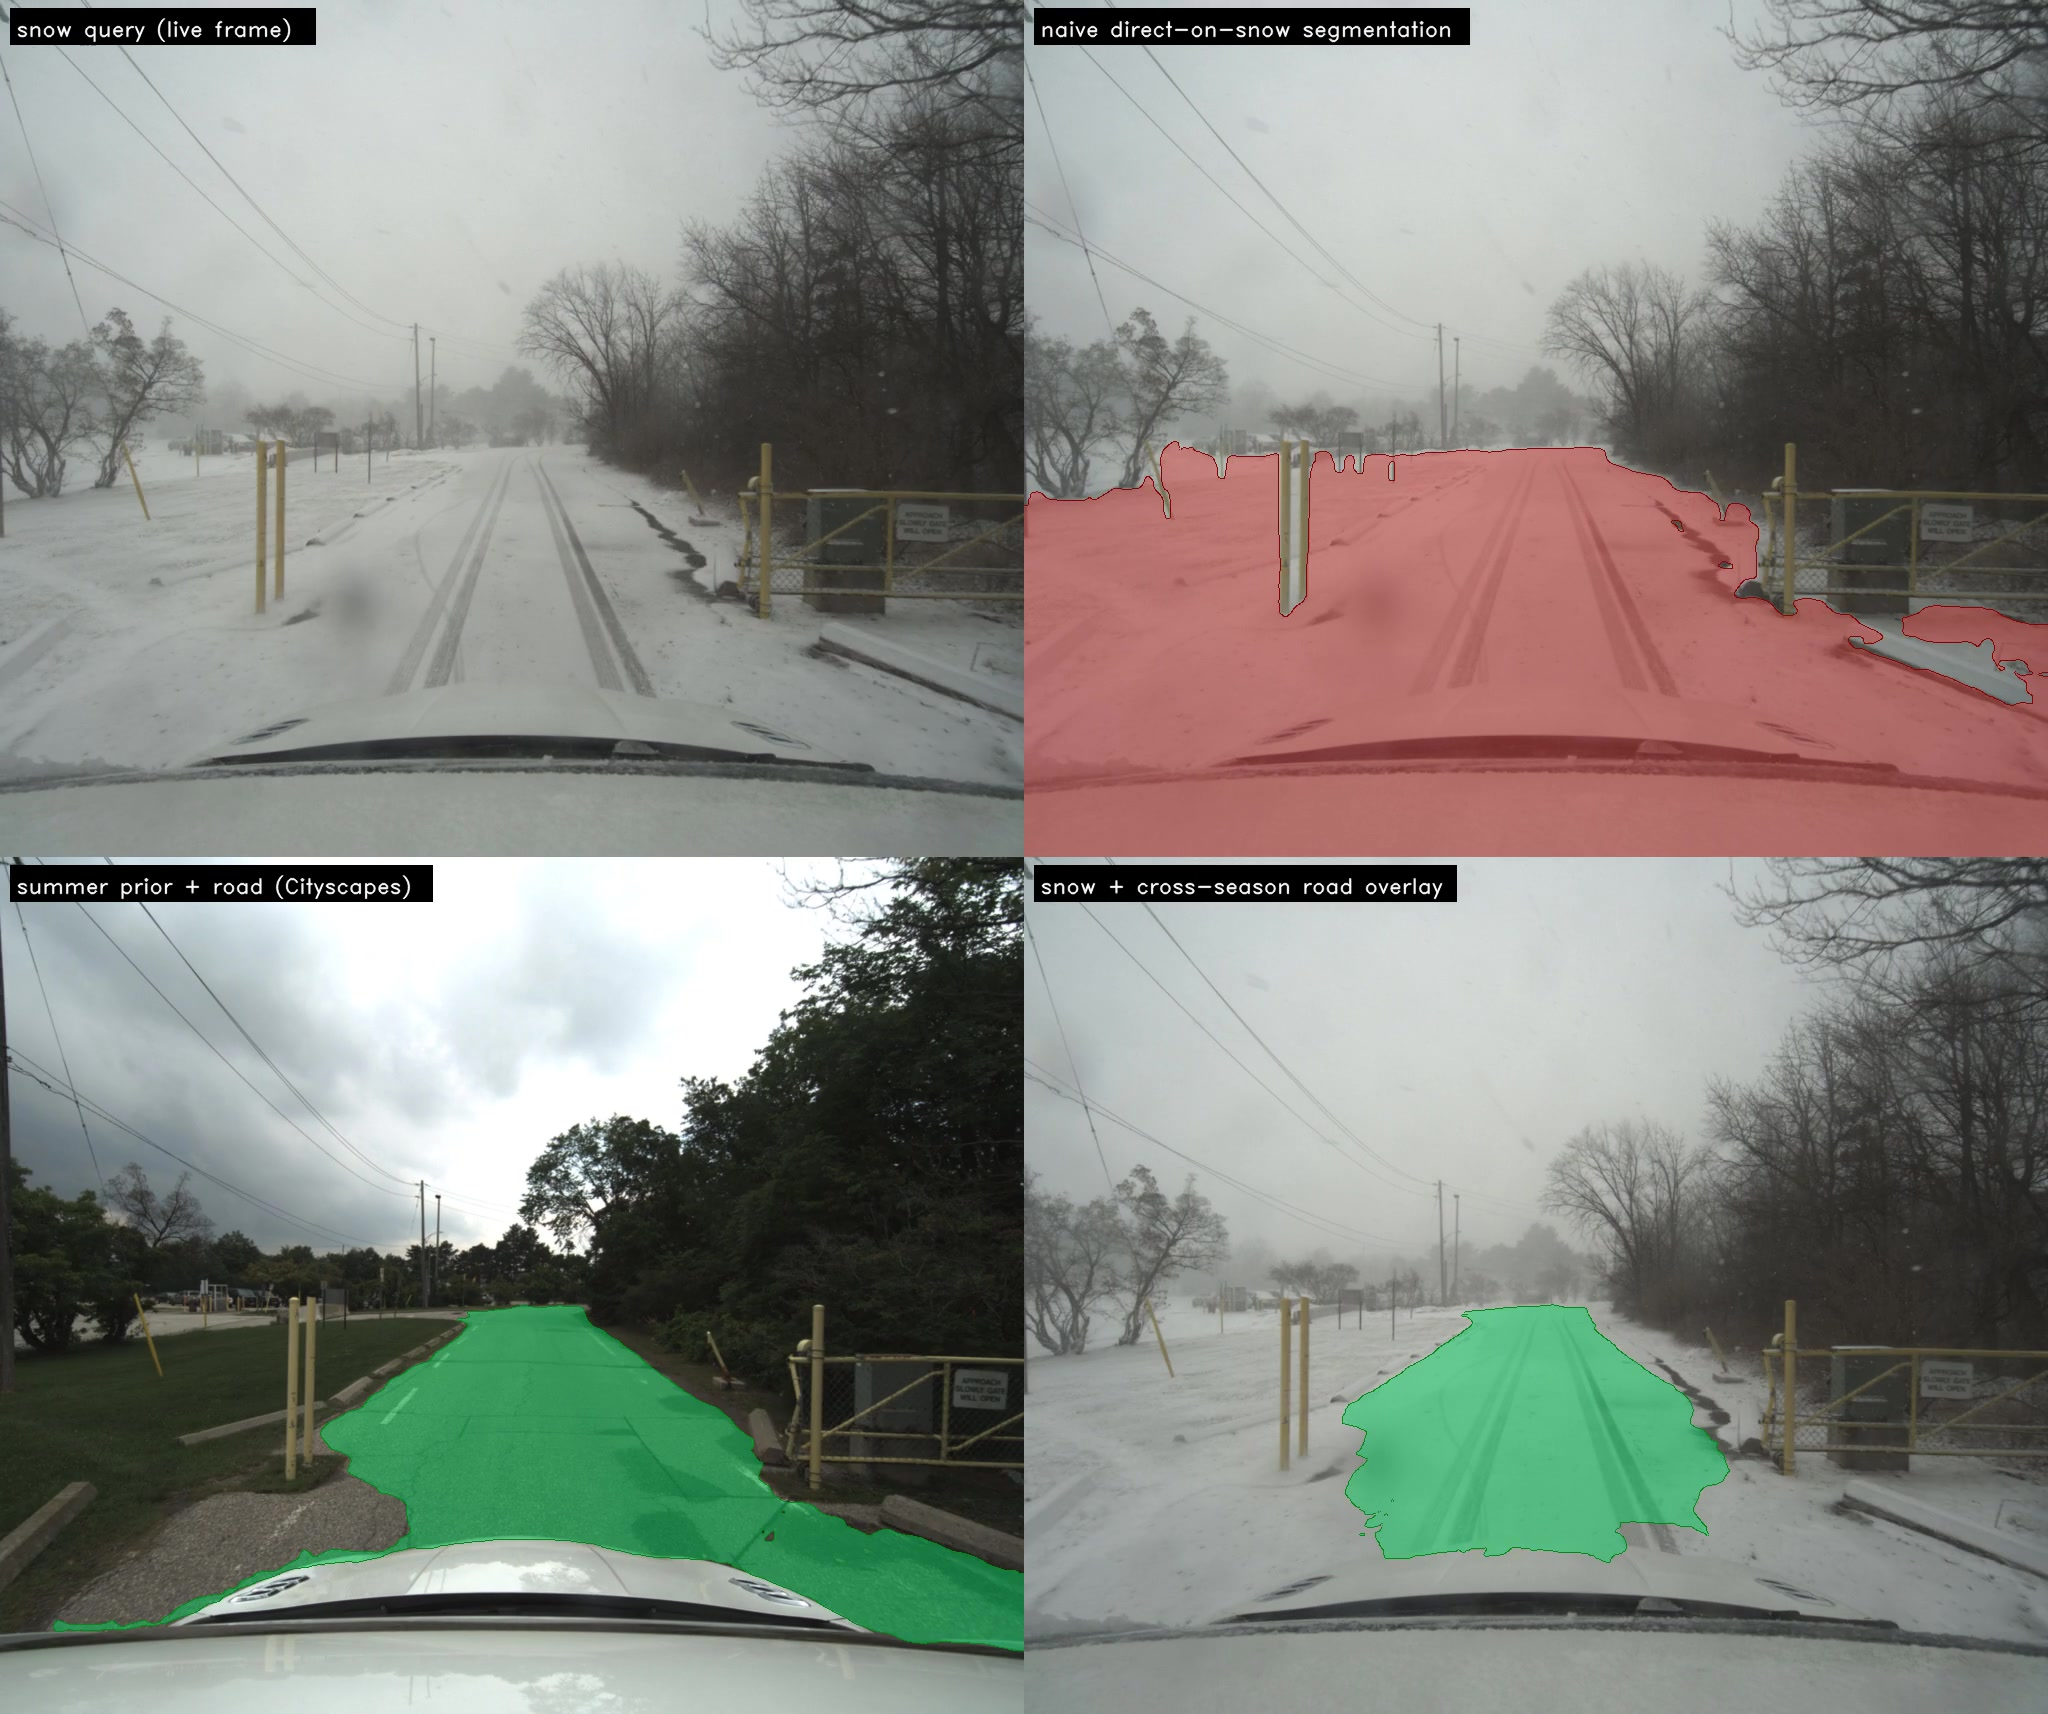
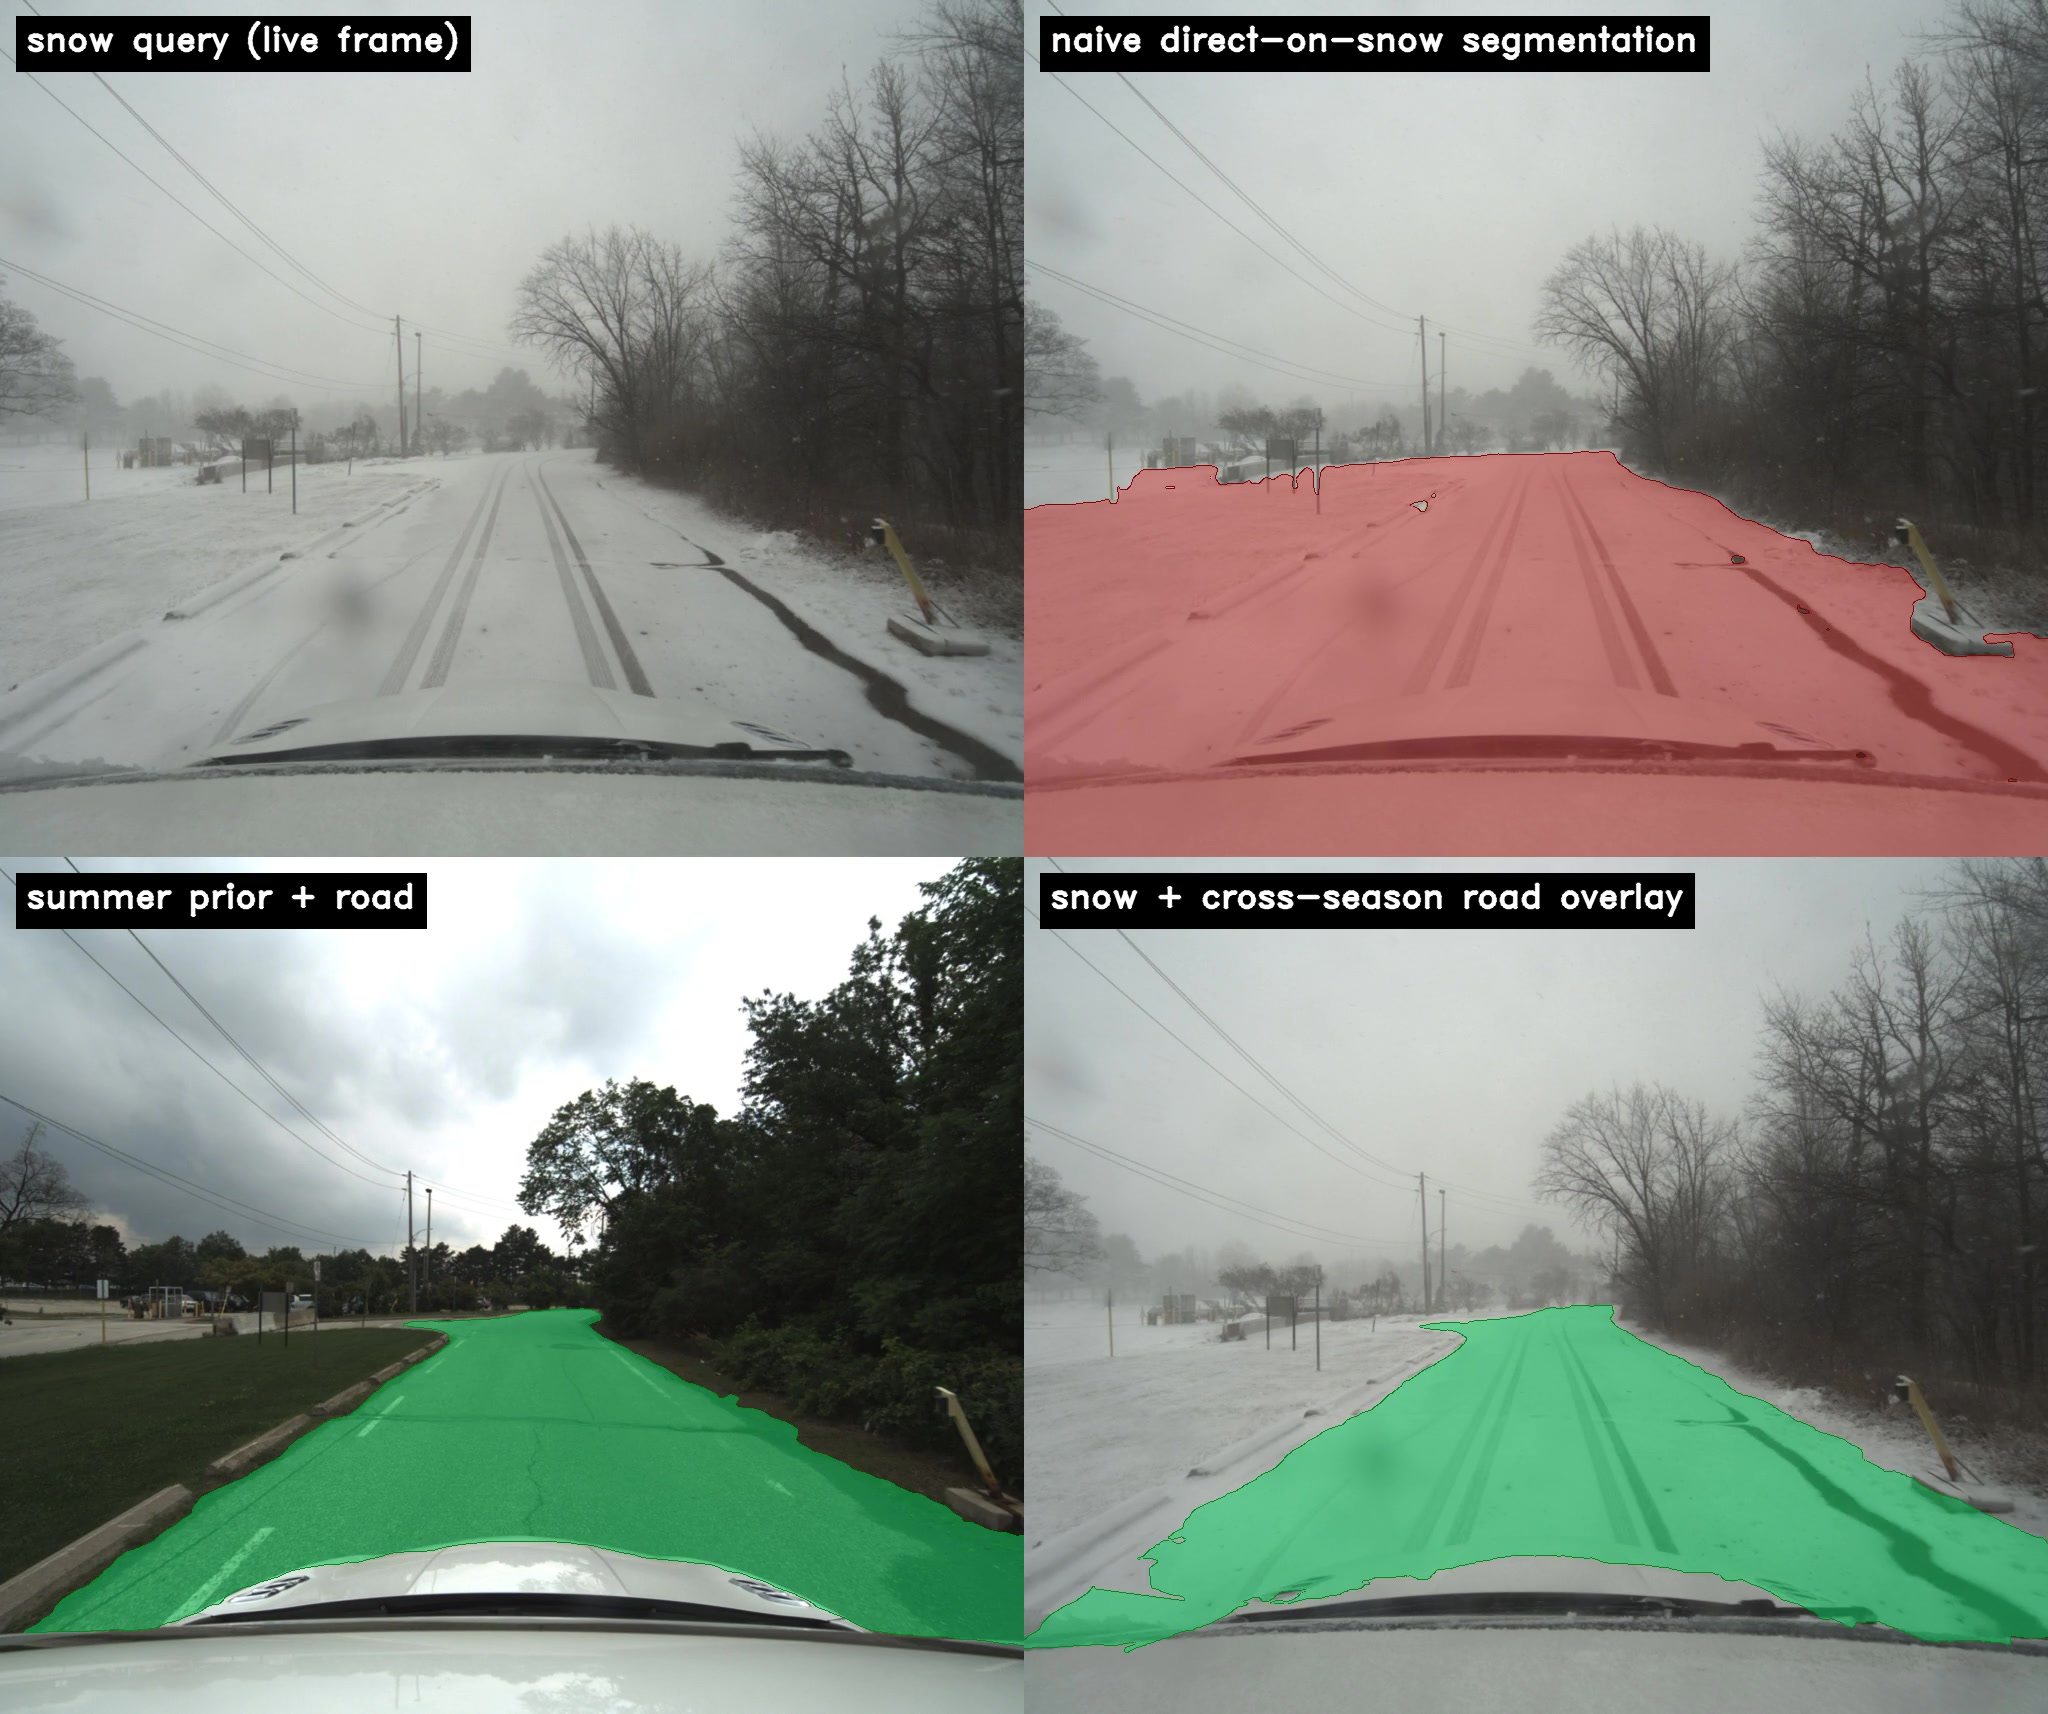
Site polish + ship media for GitHub Pages
- index.html: bonnet/cutout artefact paragraph in Limitations; bold
  + italic lead-ins with line break; conference detail wraps to its
  own line in Components; track-grid swapped to quad clips with the
  matching poster still.
- overlay_render.py: bigger in-plot labels (font scale 0.7 -> 1.1,
  thickness 1 -> 2, getTextSize-based band sizing); drop "(Cityscapes)"
  from the summer panel label.
- _assets/media: re-rendered both Toronto quad clips with the new
  labels and the new poster still.
- .gitignore: whitelist docs/_assets/media so the Pages site can
  actually load the videos.

diff --git a/docs/index.html b/docs/index.html
@@ -115,10 +115,10 @@
 
     <figure>
       <img src="_assets/media/toronto_2021_quad_t005.jpg" alt="Four panels: snow input (top-left), naive Cityscapes baseline applied directly to snow (top-right, painting road class across snow and sky), summer prior with successful road segmentation (bottom-left), cross-season overlay produced by warping the prior's road mask through the homography (bottom-right)." />
-      <figcaption>One frame, four panels, from a canonical Toronto clip. Top-left: the snow input. Top-right: the naive baseline. A Cityscapes-trained segmenter applied directly to the snow frame paints the road class across snow and sky alike. Bottom-left: the paired summer prior with the road segmentation that <em>did</em> succeed (because the road is visible). Bottom-right: the cross-season overlay produced by warping the prior's road mask through the homography into the snow frame's pixel coordinates.</figcaption>
+      <figcaption>One frame from a clip of driving in Toronto. Top-left: the snowy input. Top-right: the naive road-segmented baseline. Bottom-left: the paired summer prior with <em>successful</em> road segmentation (because the road is visible). Bottom-right: the cross-season overlay produced by warping the prior's road mask through the homography into the snow frame.</figcaption>
     </figure>
 
-    <p>The video processor wraps a per-still-image-pair pipeline in three thin layers: a track loader indexing snow and summer streams by GPS pose, a prior pool returning the K = 3 nearest summer captures by distance for each snow frame, and an exponential moving average (&alpha; = 0.4) on the binary road mask to produce a smoother continuous render of the transferred road position.</p>
+    <p>The video processor wraps a per-still-image-pair pipeline in three layers: a track loader indexing snow and summer streams by GPS pose, a prior pool returning the K = 3 nearest summer captures by distance for each snow frame, and an exponential moving average (&alpha; = 0.4) on the binary road mask to produce a smoother continuous render of the transferred road position.</p>
 
     <blockquote>The output of the Snowseer pipeline is restricted to presenting <strong>only where the road is expected to be</strong>, not where the snow should necessarily be cleared by the plough. A broader autonomous snow-clearing system would integrate Snowseer with other sensing and safety processes (lidar, depth, obstacle detection), each unburdened of the road-position problem on a buried road.</blockquote>
   </div>
@@ -130,18 +130,17 @@
 
     <table>
       <thead>
-        <tr><th>Component</th><th>Role</th><th>Pretrained on</th></tr>
+        <tr><th>Component</th><th>Role</th><th>Model</th><th>Dataset</th></tr>
       </thead>
       <tbody>
-        <tr><td><strong>DISK</strong> <em>(NeurIPS &lsquo;20)</em></td><td>Local feature detector + descriptor</td><td>MegaDepth · no snow</td></tr>
-        <tr><td><strong>LightGlue</strong> <em>(ICCV &lsquo;23)</em></td><td>Sparse feature matcher</td><td>MegaDepth · no snow</td></tr>
-        <tr><td><strong>USAC-MAGSAC</strong> <em>(CVPR &lsquo;20)</em></td><td>Robust homography</td><td>n/a</td></tr>
-        <tr><td><strong>Mask2Former</strong> <em>(CVPR &lsquo;22)</em></td><td>Road segmenter (on the clear prior only)</td><td>Cityscapes · no snow</td></tr>
-        <tr><td><strong>Boreas</strong> <em>(IJRR &lsquo;23)</em></td><td>Snow + paired summer driving captures (dataset)</td><td>n/a (CC BY 4.0)</td></tr>
+        <tr><td>Feature detector</td><td>Locate keypoints in each image</td><td><strong>DISK</strong><br /><em>(NeurIPS &lsquo;20)</em></td><td>MegaDepth</td></tr>
+        <tr><td>Feature matcher</td><td>Pair keypoints across the snow / summer images</td><td><strong>LightGlue</strong><br /><em>(ICCV &lsquo;23)</em></td><td>MegaDepth</td></tr>
+        <tr><td>Homography fit</td><td>Robust geometric registration of the pair</td><td><strong>USAC-MAGSAC</strong><br /><em>(CVPR &lsquo;20)</em></td><td>n/a</td></tr>
+        <tr><td>Road segmenter</td><td>Produce a road mask on the summer image</td><td><strong>Mask2Former</strong><br /><em>(CVPR &lsquo;22)</em></td><td>Cityscapes</td></tr>
       </tbody>
     </table>
 
-    <p>Components used unmodified and crucially <em>without any retraining</em>. None is fine-tuned on snow.</p>
+    <p>Components used crucially <em>without any retraining</em>: none are fine-tuned on snow.</p>
   </div>
 </section>
 
@@ -149,27 +148,27 @@
   <div class="container">
     <h2>Demo material</h2>
 
-    <p>The demo material is video clips from snow-covered streets in Toronto, captured in the Boreas dataset (January 2021 and February 2025). The pipeline produces a continuous green road-region overlay tracking the buried road frame by frame. A side-by-side naive baseline (the same Cityscapes segmenter applied directly to the snow frame) is included for contrast: the naive overlay sprawls across frames into clearly non-road territory, while the cross-season overlay tracks the buried road continuously through the clip on a pipeline whose learned components have never seen snow.</p>
+    <p>The demo material consists of video clips from snow-covered streets in Toronto (January 2021 and February 2025), obtained from the Boreas dataset. The pipeline produces a continuous green road-region overlay tracking the buried road frame by frame. A side-by-side naive baseline (the same segmenter applied directly to the snow frame) is included for contrast: the naive overlay sprawls across frames into clearly non-road territory, while the cross-season overlay tracks the buried road continuously through the clip on a pipeline whose components have never seen snow.</p>
 
     <div class="track-grid">
       <figure class="track">
-        <video autoplay loop muted playsinline controls preload="metadata" poster="_assets/media/toronto_2021_overlay_t005.jpg">
-          <source src="_assets/media/toronto_2021_sidebyside.mp4" type="video/mp4" />
+        <video autoplay loop muted playsinline controls preload="metadata" poster="_assets/media/toronto_2021_quad_t005.jpg">
+          <source src="_assets/media/toronto_2021_quad.mp4" type="video/mp4" />
         </video>
-        <figcaption><strong>Residential Toronto, January 2021.</strong> Heavy snow, mid-morning. Snow query (left) and cross-season overlay (right).</figcaption>
+        <figcaption><strong>Toronto, January 2021.</strong> Four panels per frame: snow input (top-left), naive segmenter baseline applied directly to snow (top-right), paired summer prior with road segmentation (bottom-left), cross-season overlay onto the snow frame (bottom-right).</figcaption>
       </figure>
 
       <figure class="track">
         <video autoplay loop muted playsinline controls preload="metadata">
-          <source src="_assets/media/toronto_2025_sidebyside.mp4" type="video/mp4" />
+          <source src="_assets/media/toronto_2025_quad.mp4" type="video/mp4" />
         </video>
-        <figcaption><strong>Toronto, February 2025.</strong> A different drive in active snowfall, late afternoon. Same code and parameters as the January clip.</figcaption>
+        <figcaption><strong>Toronto, February 2025.</strong> Four panels per frame: snow input (top-left), naive segmenter baseline applied directly to snow (top-right), paired summer prior with road segmentation (bottom-left), cross-season overlay onto the snow frame (bottom-right)..</figcaption>
       </figure>
     </div>
 
-    <p>The same pipeline was also verified across an 18-pair static-stills set from different nordic regions, covering distinct snow scenes, road layouts and environments. It was the foundation the video pipeline was built on.</p>
+    <p>The same pipeline was also verified across a set of 18 images from different nordic regions, covering distinct snow scenes, road layouts, lighting conditions and environments. They served as proof-of-concept testing early in development and represent the foundations the video pipeline was built on.</p>
 
-    <p class="note">Each pair below is a 2&times;2: snow query (top-left), naive Cityscapes baseline applied directly to snow with the road class in red (top-right), paired summer prior of the same scene (bottom-left), cross-season overlay with the road transferred onto the snow frame in green (bottom-right).</p>
+    <p class="note">Each pair below is a 2&times;2: snow query (top-left), naive segmenter baseline applied directly to snow with the road approximation in red (top-right), paired summer prior of the same scene (bottom-left), cross-season overlay with the road transferred onto the snow frame in green (bottom-right).</p>
 
     <div class="pairs-grid">
       <figure class="pair">
@@ -211,9 +210,11 @@
   <div class="container">
     <h2>Limitations</h2>
 
-    <p><em>The pipeline is not, currently, real-time.</em> Partly due to lack of access to a snow plough and vast amounts of snow, but perhaps also due to computational constraints, the road overlay pipeline currently runs asynchronously to when images are taken. This is a barrier to deployment, but is an implementation task which is certainly surmountable if this project were to take a more operational form. There is nothing in the principle that stops a knowledge-transfer system running live. The matching pass dominates per-frame compute, taking around 16 s per frame on Mac CPU. Demo clips build end-to-end in roughly an hour. Real-time operation needs a substantially faster matcher and segmenter, which is a deployment-engineering problem rather than a research question, and is the first item in the next-steps section.</p>
+    <p><strong><em>Some artefacts in the overlay are inherited from the summer prior.</em></strong><br />Where the front of the summer capture vehicle is visible in the prior, the warped road mask begins a short distance ahead of the snow camera rather than directly under it. Where a parked car or other obstacle sits on the road in the prior, the segmenter routes the road class around the obstacle and the overlay carries that cutout forward into the snow frame. Neither artefact is a property of the constants-bridge principle. Both are tractable with reasonable engineering, for example by extrapolating the road below the visible mask boundary, or by fusing several priors of the same scene so that any one prior's foreground occlusions are filled in by the others.</p>
 
-    <p><em>The system is not, currently, able to be deployed arbitrarily.</em> The design of the present iteration of the pipeline is contingent on a certain format of high-quality clear-road imagery. Generalising the system to operate on any given road with Google Street View (or a comparable source) available is feasible (the pipeline is substrate-agnostic in principle), but the current code does not support this and is geared toward producing the specific material in this demonstration. Integrating a wider source corpus is a natural next step.</p>
+    <p><strong><em>The pipeline is not, currently, real-time.</em></strong><br />Partly due to lack of access to a snow plough and vast amounts of snow, but perhaps also due to computational constraints, the road overlay pipeline currently runs asynchronously to when images are taken. This is a barrier to deployment, but is an implementation task which is certainly surmountable if this project were to take a more operational form. There is nothing in the principle that stops a knowledge-transfer system running live. The matching pass dominates per-frame compute, taking around 16 s per frame on Mac CPU. Demo clips build end-to-end in roughly an hour. Real-time operation needs a substantially faster matcher and segmenter, which is a deployment-engineering problem rather than a research question, and is the first item in the next-steps section.</p>
+
+    <p><strong><em>The system is not, currently, able to be deployed arbitrarily.</em></strong><br />The design of the present iteration of the pipeline is contingent on a certain format of high-quality clear-road imagery. Generalising the system to operate on any given road with Google Street View (or a comparable source) available is feasible (the pipeline is substrate-agnostic in principle), but the current code does not support this and is geared toward producing the specific material in this demonstration. Integrating a wider source corpus is a natural next step.</p>
   </div>
 </section>
 

diff --git a/src/video_runtime/overlay_render.py b/src/video_runtime/overlay_render.py
@@ -32,21 +32,29 @@ RED = (220, 60, 60)
 
 
 def _label(canvas: np.ndarray, text: str, *, position: str = "tl") -> np.ndarray:
-    """Draw a small Inter-style label with a translucent dark bar behind it."""
+    """Draw a label with a dark bar behind it, sized for video legibility."""
     h, w = canvas.shape[:2]
+    font = cv2.FONT_HERSHEY_DUPLEX
+    scale = 1.1
+    thickness = 2
+    (tw, th), baseline = cv2.getTextSize(text, font, scale, thickness)
+    pad_x, pad_y = 10, 10
     if position == "tl":
-        x, y = 16, 36
+        x, y = 16 + pad_x, 16 + th + pad_y
     elif position == "tr":
-        x, y = w - 380, 36
+        x, y = w - tw - 16 - pad_x, 16 + th + pad_y
     elif position == "bl":
-        x, y = 16, h - 16
+        x, y = 16 + pad_x, h - 16 - pad_y
     else:
-        x, y = 16, 36
-    # Black band underlay for readability.
-    cv2.rectangle(canvas, (x - 6, y - 28), (x + len(text) * 13, y + 8),
-                  (0, 0, 0), -1)
-    cv2.putText(canvas, text, (x, y), cv2.FONT_HERSHEY_DUPLEX, 0.7,
-                (255, 255, 255), 1, cv2.LINE_AA)
+        x, y = 16 + pad_x, 16 + th + pad_y
+    cv2.rectangle(
+        canvas,
+        (x - pad_x, y - th - pad_y),
+        (x + tw + pad_x, y + baseline + pad_y),
+        (0, 0, 0), -1,
+    )
+    cv2.putText(canvas, text, (x, y), font, scale,
+                (255, 255, 255), thickness, cv2.LINE_AA)
     return canvas
 
 
@@ -90,7 +98,7 @@ def _compose_summer_panel(summer_image: np.ndarray, summer_mask: np.ndarray,
     if summer_mask is not None and int(summer_mask.sum()) > 0:
         canvas = alpha_blend(canvas, summer_mask, color=GREEN, alpha=0.45)
     if with_label:
-        canvas = _label(canvas, "summer prior + road (Cityscapes)")
+        canvas = _label(canvas, "summer prior + road")
     return canvas
 
 